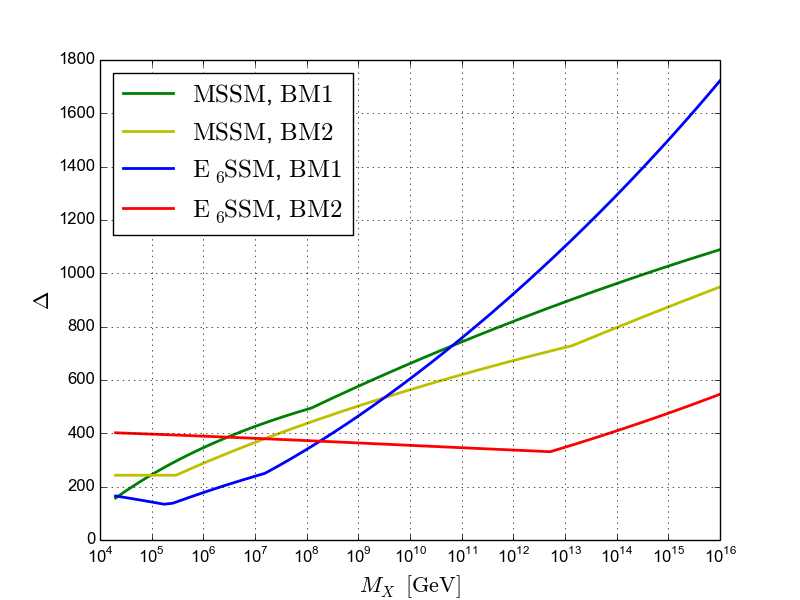
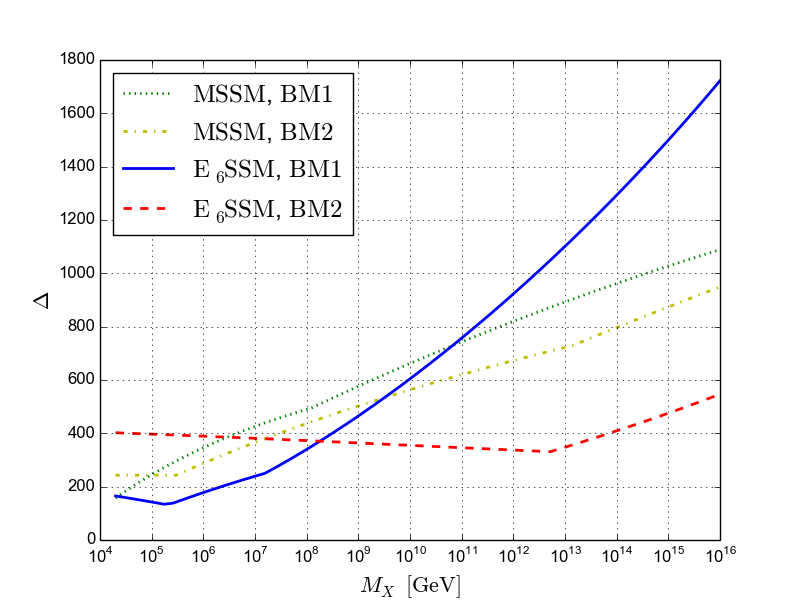
Modified plot of benchmark tunings to use dashed, dotted and dash-dotted lines for clarity, and amended text to include this description. Also changed 'it had much lighter gluino mass' to 'it had a much lighter gluino mass'

diff --git a/paper/e6ssm-tuning-paper.tex b/paper/e6ssm-tuning-paper.tex
@@ -1059,12 +1059,12 @@ $B_{\mathrm{eff}}=A_\lambda$. The soft masses $m_{H_d}^2$, $m_{H_u}^2$ and $m_S^
 \includegraphics{mssm_cutoff_scan_tb10_fixed_at_ms_BM2_all_tuning_data.png}} 
 \resizebox{!}{5.5cm}{%
 \includegraphics{e6ssm_light_zprime_cutoff_scan_tb10_fixed_at_ms_BM2_all_tuning_data.png}}%%
-\caption{\textit{Top panel:} Scatter plot of the fine tuning as a function of the cutoff scale $M_X$ for the four benchmark points given in Table \ref{tab:benchmarks}. \textit{Middle left panel:}  Individual sensitivities for MSSM BM1 plotted against the high scale $M_X$ which give the overall tuning shown by the green line in the top panel. \textit{Middle right panel:} Individual sensitivities for E$_6$SSM BM1 plotted against the high scale $M_X$ which give the overall tuning shown by the blue line in the top panel. \textit{Bottom left panel:} Individual sensitivities for MSSM BM2 plotted against the high scale $M_X$ which give the overall tuning shown by the yellow line in the top panel. \textit{Bottom right panel:} Individual sensitivities for E$_6$SSM BM2 plotted against the high scale $M_X$ which give the overall tuning shown by the red line in the top panel.    }
+\caption{\textit{Top panel:} Scatter plot of the fine tuning as a function of the cutoff scale $M_X$ for the four benchmark points given in Table \ref{tab:benchmarks}. \textit{Middle left panel:}  Individual sensitivities for MSSM BM1 plotted against the high scale $M_X$ which give the overall tuning shown by the green (dotted) line in the top panel. \textit{Middle right panel:} Individual sensitivities for E$_6$SSM BM1 plotted against the high scale $M_X$ which give the overall tuning shown by the blue (solid) line in the top panel. \textit{Bottom left panel:} Individual sensitivities for MSSM BM2 plotted against the high scale $M_X$ which give the overall tuning shown by the yellow (dash-dotted) line in the top panel. \textit{Bottom right panel:} Individual sensitivities for E$_6$SSM BM2 plotted against the high scale $M_X$ which give the overall tuning shown by the red (dashed) line in the top panel.    }
 \label{Fig:BMs-varyMX}
 \end{center}
 \end{figure}
 
-In the top panel one can see that the MSSM BM1 tuning (green curve) 
+In the top panel one can see that the MSSM BM1 tuning (dotted green curve) 
 steadily climbs as the cutoff scale is increased, as one would expect
 when the tuning originates from large soft masses entering from the
 RGEs. The panel on the middle left confirms this, showing that the
@@ -1083,7 +1083,7 @@ which point is more fine tuned depends on the scale at which the
 parameters are defined.  This illustrates that any statement about
 which model is more tuned depends on the high scale boundary, $M_X$.
 
-For E$_6$SSM BM1 the fine tuning is shown by the blue curve in the top
+For E$_6$SSM BM1 the fine tuning is shown by the solid blue curve in the top
 panel of Fig.~\ref{Fig:BMs-varyMX} and the individual sensitivities
 are given in the middle right panel. The tuning actually reduces
 initially as the cutoff is is increased from $20$ TeV.  This occurs
@@ -1129,8 +1129,8 @@ through the usual mechanism \footnote{Wherein $m_{H_u}^2(M_{SUSY})$
 
 
 By contrast the tuning for E$_6$SSM BM2 is very different, as is shown
-in red in the top panel, with the individual sensitivities given in the
-bottom right panel. This point was chosen as it had much lighter
+in red (dashed) in the top panel, with the individual sensitivities given in the
+bottom right panel. This point was chosen as it had a much lighter
 gluino mass that is just above the experimental limit of $1.4$ TeV
 \cite{Aad:2014lra}.  At $20$ TeV this benchmark is not amongst the
 lowest tuned points, since at that scale the tree level tuning from
@@ -1153,7 +1153,7 @@ $\lambda_{1,2}(M_X)=0.1$. This leads to a significant reduction in the contribut
 \end{align*}
 In the unconstrained case, this contribution acts to drive up the values of $m_{Q_3}^2$ and $m_{H_u}^2$, and thus the associated tuning sensitivities, at the cutoff scale $M_X$. In the case of E$_6$SSM BM2, on the other hand, the reduced splitting between the soft masses leads to a much smaller contribution from these terms. Together with the reduction in $M_3$ described above, this allows to maintain the observed low fine tuning at very large values of $M_X$.
 
-MSSM benchmark BM2 (yellow in top panel, individual sensitivities in bottom left panel) is designed to be similar to E$_6$SSM BM2, for a reasonable comparison.  However from the individual sensitivities one can see that the behaviour is quite similar to MSSM BM1, though in this case the $\Delta_{m_{H_u}^2}$ becomes the largest tuning at a higher $M_X$ and does not reach such large values, since more of the tuning is from the mixing in this case.
+MSSM benchmark BM2 (yellow, dash-dotted in top panel, individual sensitivities in bottom left panel) is designed to be similar to E$_6$SSM BM2, for a reasonable comparison.  However from the individual sensitivities one can see that the behaviour is quite similar to MSSM BM1, though in this case the $\Delta_{m_{H_u}^2}$ becomes the largest tuning at a higher $M_X$ and does not reach such large values, since more of the tuning is from the mixing in this case.
 
 \section{\label{sec:conclusion}Conclusions}
 
